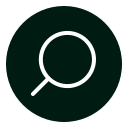
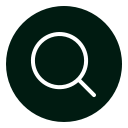
List update

Changed region(s): [[0.2188, 0.2188, 0.75, 0.7812]]

diff --git a/LesChefVS(front)/CategoryList/html/informShare.html b/LesChefVS(front)/CategoryList/html/informShare.html
@@ -4,9 +4,9 @@
   <meta charset="UTF-8">
   <meta name="viewport" content="width=device-width, initial-scale=1.0">
   <link rel="stylesheet" href="../css/Categoryheader.css">
-  <link rel="stylesheet" href="../css/ListInform.css">
+  <link rel="stylesheet" href="../css/ListInformshare.css">
   <link rel="stylesheet" href="../css/font.css">
-  <title>Les Chef inform</title>
+  <title>Les Chef informShare</title>
 </head>
 <body>
   <header>
@@ -15,7 +15,7 @@
       <div id="board"><a href="#"><img src="../레시피 아이콘/게시판아이콘.png"/></div></a>
       <div id="logo"><a href="#"><img src="../레시피 아이콘/로고.png"/></div></a>
       <div id="icon2"><a href="#"><img id="mypageicon"src="../레시피 아이콘/마이페이지.png"/></a>
-        <a href="#"><img id="login" src="../레시피 아이콘/자물쇠 1.png" width="55"/></a>
+      <a href="#"><img id="login" src="../레시피 아이콘/자물쇠 1.png" width="55"/></a>
       </div>
     </div>
     <!-- 빨간 가로바 텍스트 -->
@@ -28,15 +28,20 @@
   <main>
 <!-- 메인 사진 윗 부분 -->
   <span id="sort">한식 > 볶음류</span><br>
-  <span id="title">치즈 닭갈비</span>
+  <span id="title">스팸마요덮밥 한끼식사로 딱이야~!!</span>
+  <div id="user">
+  <img src="../레시피 아이콘/사용자.png" width="40px"/><span id="username">by 엘린맘</span>
+  </div>
+  
   <div>
     <img id="eye" src="../레시피 아이콘/조회수.png"/><p id="eyenum">180</p>
   </div>
   <img id="mainimg" src="../레시피 아이콘/세부1.png"/>
-
-  <div id="cell"> <span>재료 준비</span> 
-    <p>닭 다리살 500g</p><p>양파 1/2개</p><p>고구마 한개</p><p>고추장 500g</p>
+  
+  <div id="cell"> 
+    <span>재료 준비</span> <p>닭 다리살 500g</p><p>양파 1/2개</p><p>고구마 한개</p><p>고추장 500g</p>
   </div>
+  
   <div class="aside">
     <img id="asideicon1" src="../레시피 아이콘/댓글.png" width="60px">
     <img id="asideicon2" src="../레시피 아이콘/하트.png" width="60px">
@@ -48,7 +53,7 @@
     <div class="selecticon"><img id="selecticon2" src="../레시피 아이콘/시계.png"><span>30분</span></div>
     <div class="selecticon "><img src="../레시피 아이콘/난이도.png"><span id="selecticon3">쉬움</span></div>
   </div>
-
+  
   <img id="line1" src="../레시피 아이콘/인포선.png">
 
 <!-- 초록선 -->
@@ -112,7 +117,7 @@
       <div class="coment">
         <img class="comentimg" src="../레시피 아이콘/사용자.png" /><span class="comentnickname">by 사용자1</span>
         <div class="allstar">
-        <img class="comentstar" src="../레시피 아이콘/사용자별.png"/><img class="comentstar" src="../레시피 아이콘/사용자별.png"/><img class="comentstar" src="../레시피 아이콘/사용자별.png"/><img class="comentstar" src="../레시피 아이콘/사용자반별.png"/><img class="comentstar" src="../레시피 아이콘/사용자빈별.png"/> <span>2024-05-28 20:28:55</span>
+        <img class="comentstar" src="../레시피 아이콘/사용자별.png"/><img class="comentstar" src="../레시피 아이콘/사용자별.png"/><img class="comentstar" src="../레시피 아이콘/사용자별.png"/><img class="comentstar" src="../레시피 아이콘/사용자반별.png"/><img class="comentstar" src="../레시피 아이콘/사용자빈별.png"/><span>2024-05-28 20:28:55</span>
         </div>
       </div>
       <span class="comenttext">뭐라써야할까 난 잘 몰르겠넹 아 집 가고 싶아</span><hr width="700px">

diff --git a/LesChefVS(front)/CategoryList/css/ListInformshare.css b/LesChefVS(front)/CategoryList/css/ListInformshare.css
@@ -19,14 +19,29 @@
 }
 #mainimg{
   position: absolute;
-  top:350px;
+  top:400px;
   left: 480px;
   width: 924px;
   height: 572px;
 }
+#user{
+  position: relative;
+  top:250px;
+  left: 490px;
+  width:800px;
+
+}
+#username{
+  position: absolute;
+  /* top:10px;  */
+  font-family: 'sans';
+  font-weight: 900;
+  font-size: 25px;
+  padding-left: 10px;
+}
 #eye{
   position: relative;
-  top: 220px;
+  top: 230px;
   left: 1320px;
 }
 #eyenum{
@@ -34,7 +49,7 @@
   font-weight: 900;
   color: #999999;
   position:relative;
-  top: 190px;
+  top: 199px;
   left: 1360px;
   width:150px;
 }
@@ -43,7 +58,7 @@
 
 #cell{
   position:fixed;
-  top:350px;
+  top:400px;
   left: 1450px;
   border: 0px solid black;
   border-radius: 20px;
@@ -71,9 +86,8 @@
 }
 .aside{
   position: fixed;
-  /* border: 1px solid black; */
   width: 300px;
-  top: 250px;
+  top: 300px;
   left: 1450px;
 }
 #asideicon1{
@@ -83,12 +97,11 @@
   padding-left: 50px;
 }
 
-
 /* 메인 사진 아랫부분 */
 .allicon{
   display: flex;
   position: relative;
-  top: 880px;
+  top: 910px;
   padding-left: 1110px;
   padding-bottom: 15px;
   }
@@ -100,6 +113,7 @@
   }
 .selecticon{
   padding-left: 15px;
+  
 }
 #selecticon2{
   padding-top: 3px;
@@ -116,7 +130,7 @@
 }
 #line1{
   position: relative;
-  top: 820px;
+  top: 850px;
   width:924px;
   left: 480px;
 }
@@ -127,16 +141,15 @@
   font-family: 'kopub';
   font-weight: 900px;
   position:relative;
-  top: 800px;
+  top: 830px;
   right: 450px;
   font-size: 50px;  
 }
 
-
 /* 레시피 설명문 그리드 css*/
 
 .containerwap{
-  padding: 890px 480px 0px 480px; 
+  padding: 920px 480px 0px 480px;  
 }
 
 .gridcontainer{

diff --git a/LesChefVS(front)/CategoryList/css/LIst.css b/LesChefVS(front)/CategoryList/css/LIst.css
@@ -92,18 +92,18 @@
 .star{
   width:96px;
   height: 20px;
-  padding: 5px 10px 0px  10px;
+  padding: 5px 10px 0px  25px;
 }
 .everage{
   color:#616161;
-  padding: 5px 10px 0px  10px;
+  padding: 5px 10px 0px  5px;
 }
 .eye{
-  padding-left: 40px;
+  padding-left: 55px;
 }
 .eyenumber{
   color:#616161;
-  padding: 5px 10px 0px  10px;
+  padding: 5px 5px 0px  5px;
 }
 .icon{
 padding-left: 10px;
@@ -116,8 +116,22 @@ padding-right: 40px;
   display: none;
 }
 
-/* #search{
-  position:relative;
-  left: 90%;
-  top: 65%;
-} */
+#search{
+  position:fixed;
+  z-index: 1;
+  left: 1719px;
+  top: 616px;
+}
+#searchtext{
+  display: none;
+  position: fixed;
+  z-index: 0;
+  left: 1265px;
+  top: 618px;
+  width: 500px;
+  height: 43px;
+  border-radius: 40px;
+  border-color: #001B11;
+  border: 2px solid;
+  padding:2px
+}

diff --git a/LesChefVS(front)/CategoryList/html/List.html b/LesChefVS(front)/CategoryList/html/List.html
@@ -37,8 +37,10 @@
     <span class="subcategory">볶음류 </span><span class="subcategory">튀김류 </span><span class="subcategory">기타</span>
     <button class="listbutton">최신순</button> <button class="listbutton">조회순</button>
   </div>
-
-  <!-- <img id="search" src="../레시피 아이콘/검색.png"/> -->
+  <div>
+  <img id="search" src="../레시피 아이콘/search.png" width="55px"/>
+  <input id="searchtext"> </input>
+</div>
 <!-- 리스트 목록 -->
   <div id="listwrap">
     <!-- ---------------------변수로 바꿀시 밑 부분제외, 이 부분 반복 뿌리기 -------------------------------------------------------- -->
